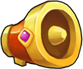
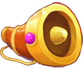
添加喇叭数量显示和资源图片

diff --git a/client/cocos2d-x-2.2.1/projects/Magpie/Resources/src/view/mainModule/greetingLabel.js b/client/cocos2d-x-2.2.1/projects/Magpie/Resources/src/view/mainModule/greetingLabel.js
@@ -49,6 +49,14 @@ var GreetingLabel = LazyLayer.extend({
         speakerIcon.setScale(0.6);
         this.addChild(speakerIcon);
 
+        var speakerNumIcon = cc.Sprite.create(main_scene_image.icon373);
+        speakerNumIcon.setPosition(this._greetingLabelFit.speakerNumPoint);
+        this.addChild(speakerNumIcon);
+
+        this._speakerNumLabel = cc.LabelTTF.create(50, "STHeitiTC-Medium", 20);
+        this._speakerNumLabel.setPosition(this._greetingLabelFit.speakerNumPoint);
+        this.addChild(this._speakerNumLabel);
+
         this._msgEditBox = cc.EditBox.create(cc.size(325, 48), cc.Scale9Sprite.create(main_scene_image.edit));
         this._msgEditBox.setPosition(this._greetingLabelFit.msgEditBoxPoint);
         this._msgEditBox.setInputMode(cc.EDITBOX_INPUT_MODE_SINGLELINE);
@@ -75,7 +83,7 @@ var GreetingLabel = LazyLayer.extend({
 
         closeItem.setPosition(this._greetingLabelFit.closeItemPoint);
 
-        var menu = LazyMenu.create(sendItem,closeItem);
+        var menu = LazyMenu.create(sendItem, closeItem);
         menu.setTouchPriority(LAZY_LAYER_HANDLER_PRIORITY - 1);
         menu.setPosition(cc.p(0, 0));
         this.addChild(menu);
@@ -98,7 +106,7 @@ var GreetingLabel = LazyLayer.extend({
         return true;
     },
 
-    insertMessages: function() {
+    insertMessages: function () {
         cc.log("GreetingLabel insertMessages");
         var msgList = gameData.greeting.getMsgList();
         var len = msgList.length;
@@ -202,7 +210,7 @@ var GreetingLabel = LazyLayer.extend({
         }, text);
     },
 
-    _onClickClose: function() {
+    _onClickClose: function () {
         cc.log("GreetingLabel _onClickClose");
 
         gameData.sound.playEffect(main_scene_image.click_button_sound, false);

diff --git a/client/cocos2d-x-2.2.1/projects/Magpie/Resources/src/model/gameFit.js b/client/cocos2d-x-2.2.1/projects/Magpie/Resources/src/model/gameFit.js
@@ -1304,7 +1304,8 @@ var fit4Iphone4 = {
             "scrollViewSize": cc.size(500, 470),
             "scrollViewPoint": cc.p(110, 165),
             "scrollViewHeight": 470,
-            "closeItemPoint": cc.p(605, 760)
+            "closeItemPoint": cc.p(605, 760),
+            "speakerNumPoint": cc.p(127, 711)
         },
         "vipLayer": {
             "bgSpritePoint": cc.p(40, 106),
@@ -2659,7 +2660,8 @@ var fit4Iphone5 = {
             "scrollViewSize": cc.size(500, 590),
             "scrollViewPoint": cc.p(70, 205),
             "scrollViewHeight": 590,
-            "closeItemPoint": cc.p(565, 918)
+            "closeItemPoint": cc.p(565, 918),
+            "speakerNumPoint": cc.p(87, 861)
         },
         "vipLayer": {
             "bgSpritePoint": cc.p(0, 106),

diff --git a/client/cocos2d-x-2.2.1/projects/Magpie/Resources/src/model/player.js b/client/cocos2d-x-2.2.1/projects/Magpie/Resources/src/model/player.js
@@ -49,6 +49,7 @@ var Player = Entity.extend({
     _maxTournamentCount: 0,
     _tournamentCount: 0,
     _ability: 0,        // 战斗力
+    _speaker: 0,        // 喇叭数量
 
     _maxLv: 0,          // 最大等级
     _maxPower: 0,       // 最大体力
@@ -130,6 +131,12 @@ var Player = Entity.extend({
         this.set("powerTimestamp", data.power.time);
         this.set("goldCards", data.goldCards);
         this.set("vip", data.vip);
+
+        if (data.speaker) {
+            this.set("speaker", data.speaker);
+        } else {
+            this.set("speaker", 0);
+        }
 
         if (data.firstTime) {
             this.set("recharge", data.firstTime.recharge);

diff --git a/client/cocos2d-x-2.2.1/projects/Magpie/Resources/src/resource.js b/client/cocos2d-x-2.2.1/projects/Magpie/Resources/src/resource.js
@@ -684,6 +684,8 @@ var main_scene_image = {
     icon370: main_scene_path + "icon370.png",
     icon371: main_scene_path + "icon371.png",
     icon372: main_scene_path + "icon372.png",
+    icon373: main_scene_path + "icon373.png",
+    icon374: main_scene_path + "icon374.png",
 
     card30000_head1: main_scene_path + "card30000_head1.png",
     card30000_half1: main_scene_path + "card30000_half1.png",
